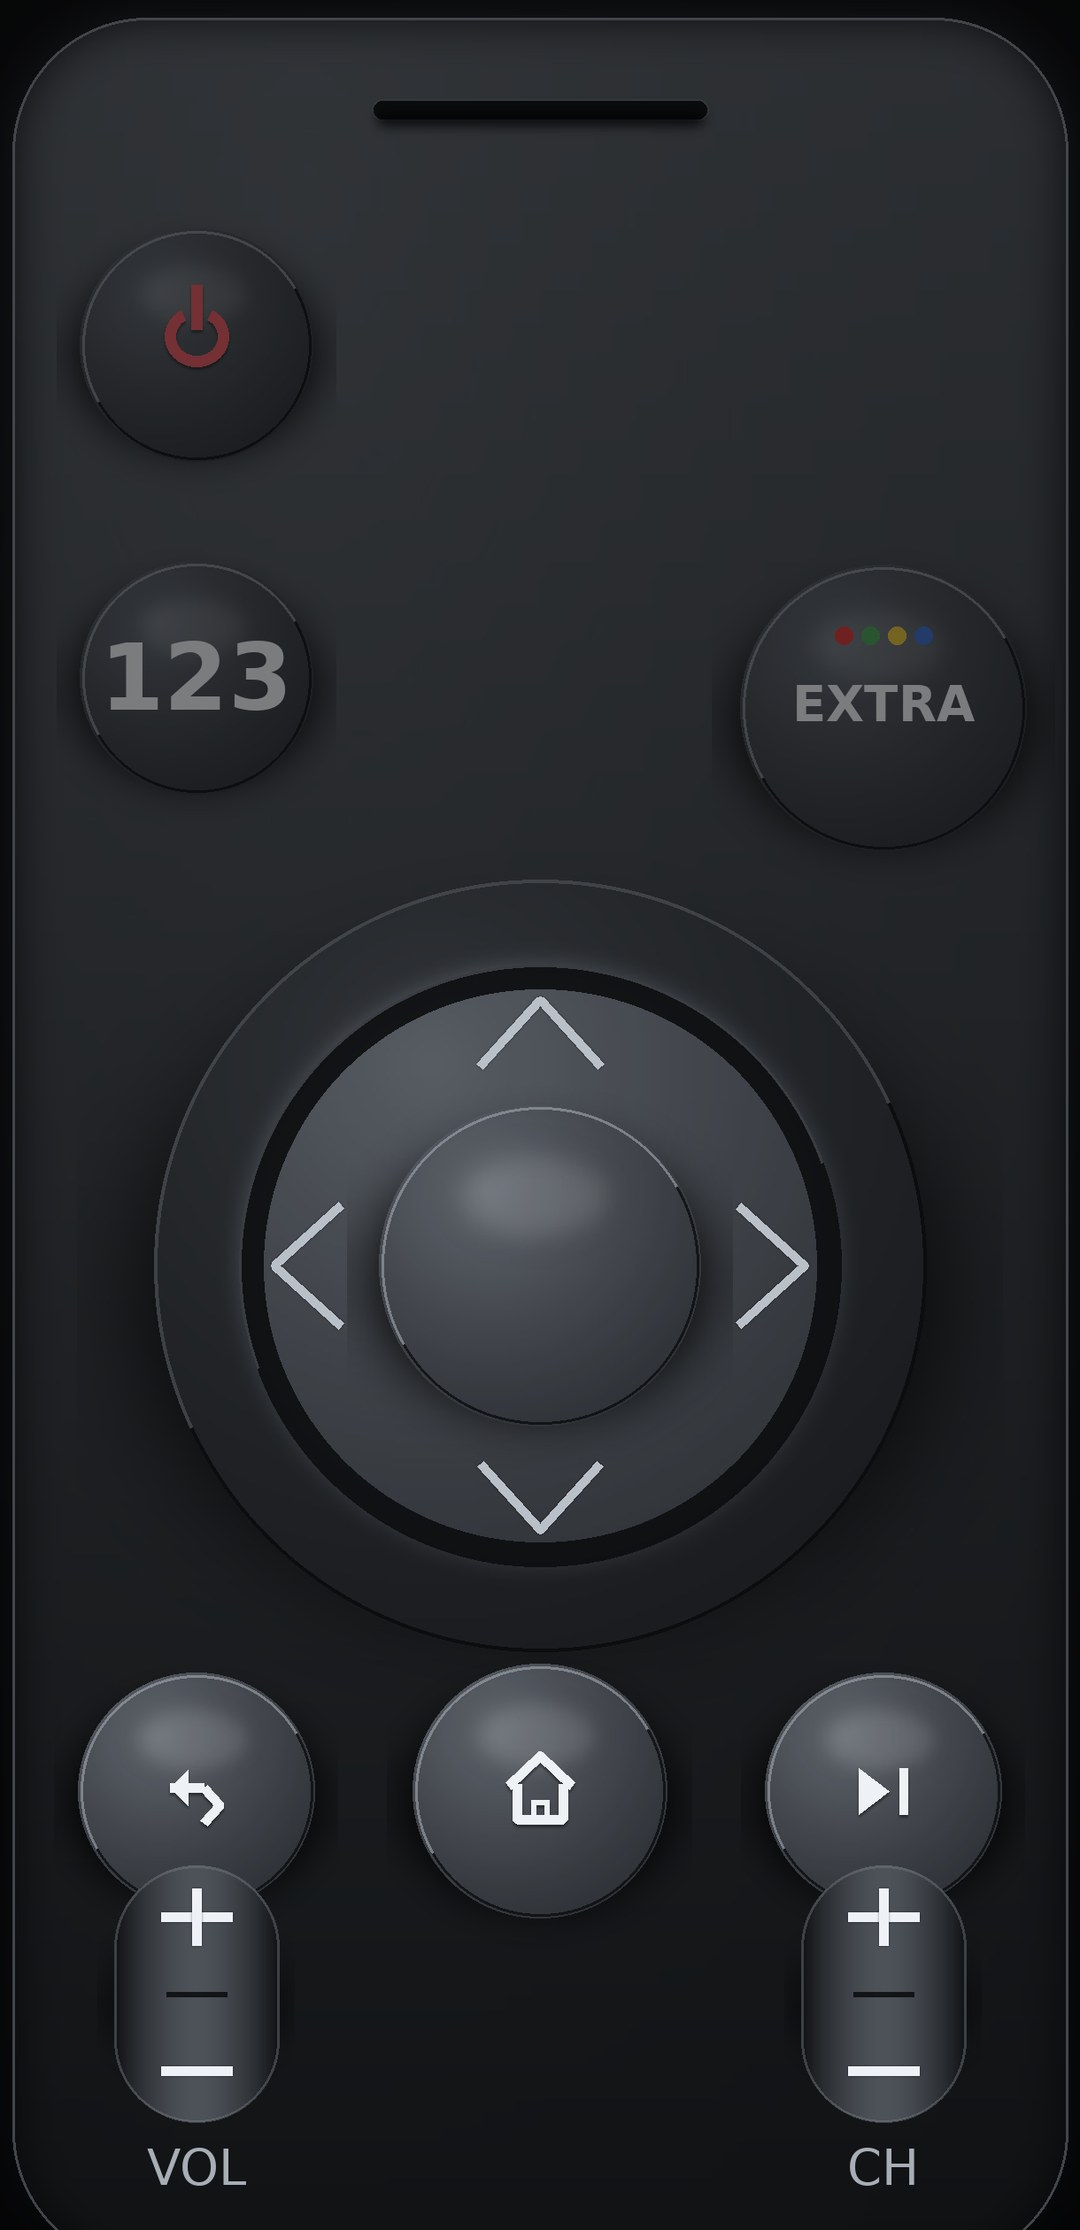
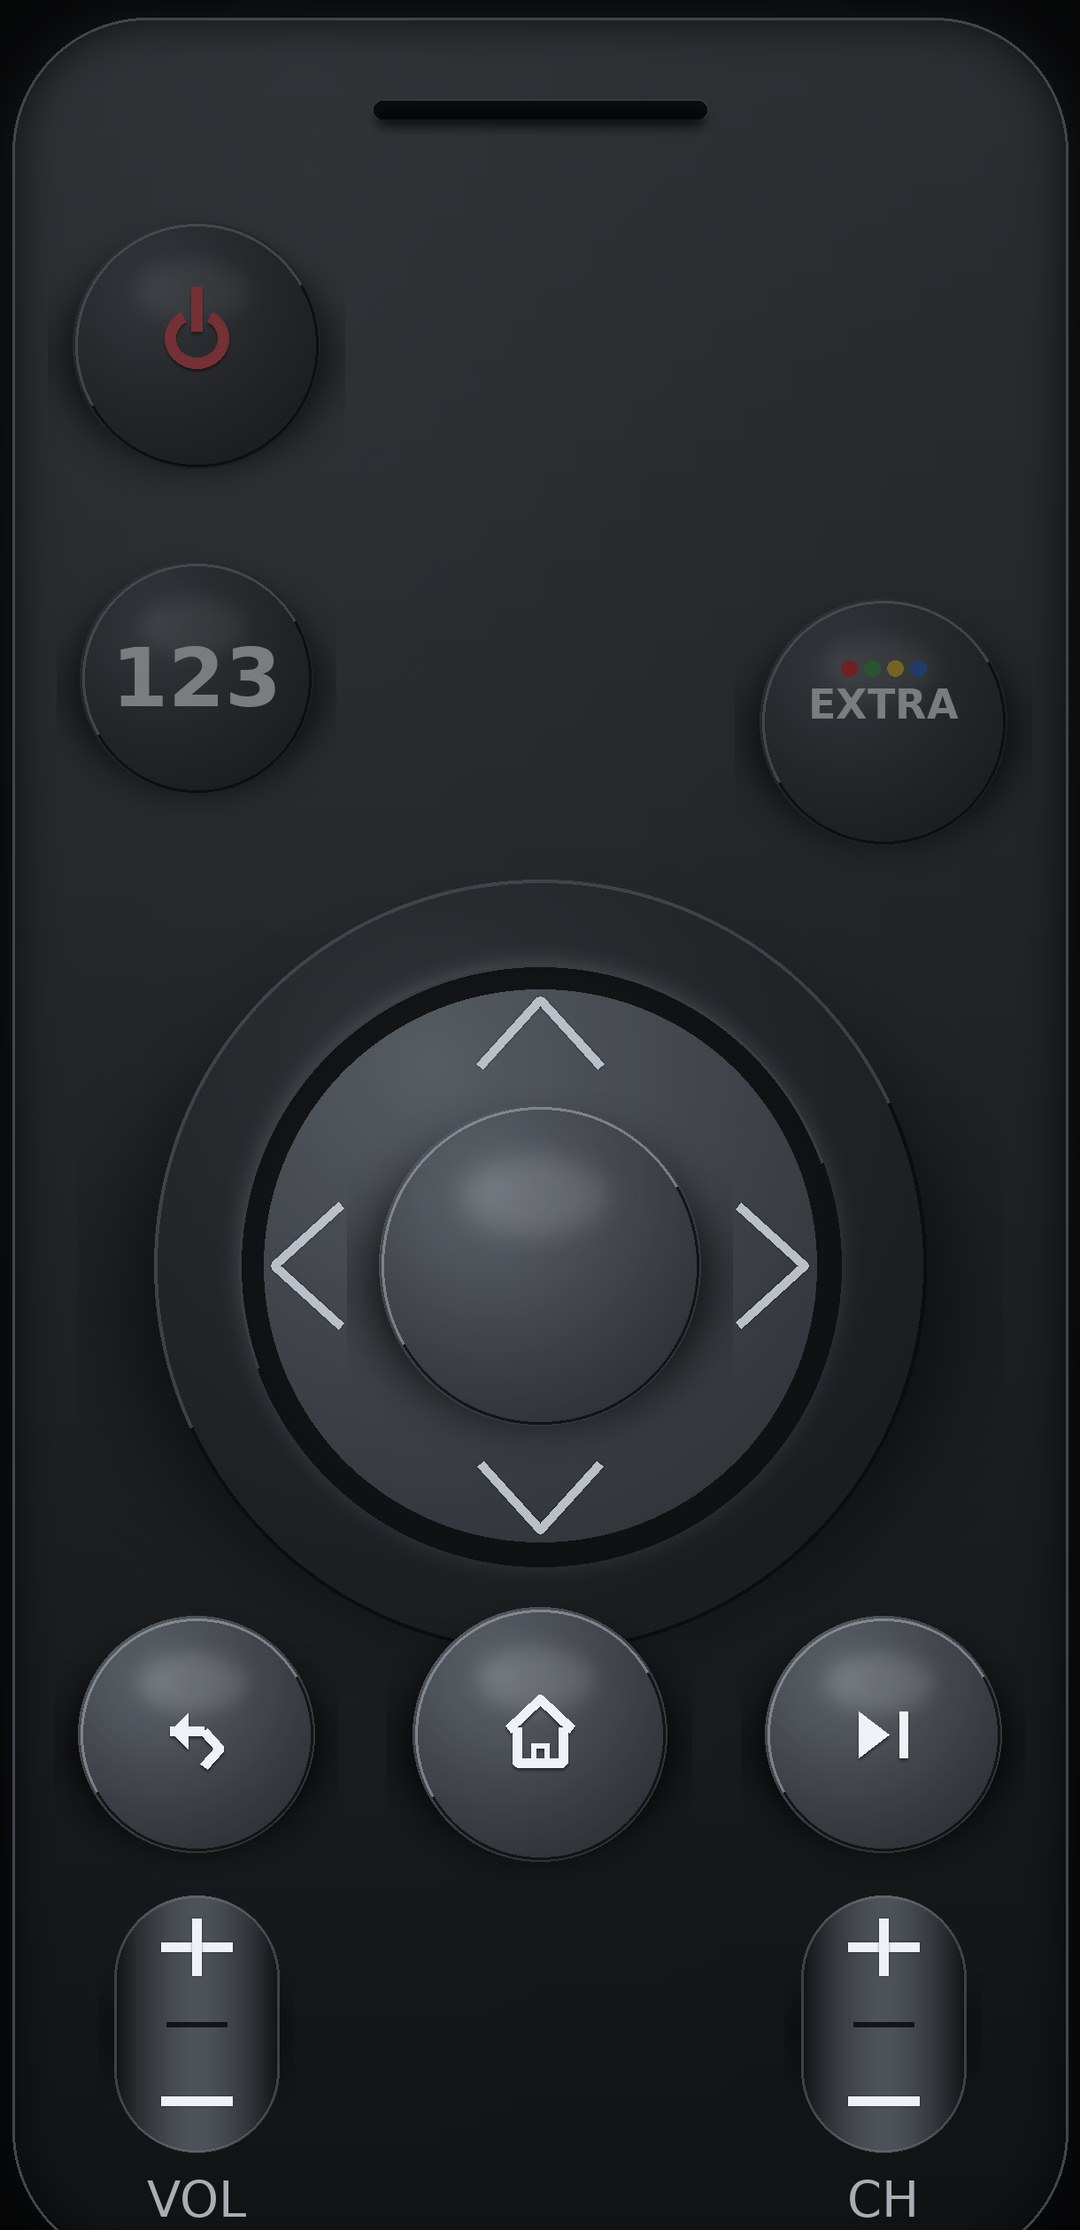
2.0.6: balancins sem sobrepor, EXTRA no mesmo tamanho das outras, marcas lado a lado em relevo

diff --git a/ios/Sources/PhotoRemote.swift b/ios/Sources/PhotoRemote.swift
@@ -104,9 +104,9 @@ enum RemoteArt {
             CGRect(x: cx - r, y: cy - r, width: 2 * r, height: 2 * r)
         }
         var keys: [HotKey] = [
-            HotKey(id: "power", box: box(252, 430, 136), cmd: .power),
-            HotKey(id: "123", box: box(252, 840, 166)),
-            HotKey(id: "extra", box: box(1280 - 252, 840, 166)),
+            HotKey(id: "power", box: box(252, 430, 144), cmd: .power),
+            HotKey(id: "123", box: box(252, 856, 144)),
+            HotKey(id: "extra", box: box(1280 - 252, 856, 144)),
             // roda: 4 bordas + OK
             HotKey(id: "up", box: box(640, 1470 - 262, 112), corner: 0.5, cmd: .up),
             HotKey(id: "down", box: box(640, 1470 + 262, 112), corner: 0.5, cmd: .down),
@@ -114,17 +114,17 @@ enum RemoteArt {
             HotKey(id: "right", box: box(640 + 262, 1470, 112), corner: 0.5, cmd: .right),
             HotKey(id: "ok", box: box(640, 1470, 186), corner: 0.5, cmd: .ok),
             // três teclas redondas
-            HotKey(id: "voltar", box: box(252, 2064, 138), corner: 0.5, cmd: .back),
-            HotKey(id: "home", box: box(640, 2064, 148), corner: 0.5, cmd: .home),
-            HotKey(id: "play", box: box(1280 - 252, 2064, 138), corner: 0.5, cmd: .playPause),
+            HotKey(id: "voltar", box: box(252, 2000, 138), corner: 0.5, cmd: .back),
+            HotKey(id: "home", box: box(640, 2000, 148), corner: 0.5, cmd: .home),
+            HotKey(id: "play", box: box(1280 - 252, 2000, 138), corner: 0.5, cmd: .playPause),
             // balancins: metade de cima aumenta, de baixo diminui
-            HotKey(id: "vol+", box: CGRect(x: 252 - 93, y: 2148, width: 186, height: 145),
+            HotKey(id: "vol+", box: CGRect(x: 252 - 93, y: 2182, width: 186, height: 145),
                    corner: 0.45, cmd: .volUp),
-            HotKey(id: "vol-", box: CGRect(x: 252 - 93, y: 2293, width: 186, height: 145),
+            HotKey(id: "vol-", box: CGRect(x: 252 - 93, y: 2327, width: 186, height: 145),
                    corner: 0.45, cmd: .volDown),
-            HotKey(id: "ch+", box: CGRect(x: 1280 - 252 - 93, y: 2148, width: 186, height: 145),
+            HotKey(id: "ch+", box: CGRect(x: 1280 - 252 - 93, y: 2182, width: 186, height: 145),
                    corner: 0.45, cmd: .chUp),
-            HotKey(id: "ch-", box: CGRect(x: 1280 - 252 - 93, y: 2293, width: 186, height: 145),
+            HotKey(id: "ch-", box: CGRect(x: 1280 - 252 - 93, y: 2327, width: 186, height: 145),
                    corner: 0.45, cmd: .chDown)
         ]
         keys.append(contentsOf: [])
